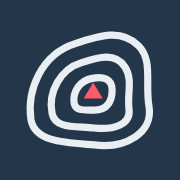
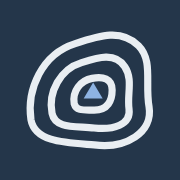
Akzentfarbe Nachtblau (dunkel: Gletscherblau), Fehler und Löschen bleiben rot, App-Symbol angepasst
Claude-Session: https://claude.ai/code/session_01SZfc5Yv3FoUxpLxE1zvgvR

Changed region(s): [[0.4722, 0.4444, 0.5833, 0.5556]]

diff --git a/index.html b/index.html
@@ -18,7 +18,7 @@
 <link rel="preconnect" href="https://fonts.gstatic.com" crossorigin>
 <link rel="stylesheet" href="https://fonts.googleapis.com/css2?family=Source+Sans+3:ital,wght@0,400;0,600;0,700;1,400&family=Source+Serif+4:opsz,wght@8..60,600;8..60,700&display=swap">
 <style>
-/* Layout: full-height topo map with a side panel (desktop) or a resizable panel below the map (phone). Serif headings like a logbook, red summit mark as the one accent. */
+/* Layout: full-height topo map with a side panel (desktop) or a resizable panel below the map (phone). Serif headings like a logbook, night blue as the one accent (tracks stay red). */
 :root {
   --bg: #F7F8F6;
   --surface: #FFFFFF;
@@ -26,7 +26,8 @@
   --muted: #5E6B78;
   --line: #DCE1E5;
   --chip: #EDF0F2;
-  --accent: #C8102E;
+  --accent: #1E3A5F;
+  --danger: #B42318;
   --accent-fg: #FFFFFF;
   --ok: #2E7D4F;
   --warn: #9A5B00;
@@ -39,14 +40,14 @@
 @media (prefers-color-scheme: dark) {
   :root:not([data-theme="light"]) {
     --bg: #12171C; --surface: #1A2128; --fg: #E5E9ED; --muted: #94A1AE; --line: #2A333C; --chip: #232B33;
-    --accent: #EE4B5E; --accent-fg: #FFFFFF; --ok: #5CC28A; --warn: #E0A548; --bar: #8FA9C4;
+    --accent: #8DB3E2; --accent-fg: #12171C; --danger: #F0707A; --ok: #5CC28A; --warn: #E0A548; --bar: #8FA9C4;
     --shadow: 0 1px 2px rgba(0,0,0,.4), 0 6px 20px rgba(0,0,0,.35);
     color-scheme: dark;
   }
 }
 :root[data-theme="dark"] {
     --bg: #12171C; --surface: #1A2128; --fg: #E5E9ED; --muted: #94A1AE; --line: #2A333C; --chip: #232B33;
-    --accent: #EE4B5E; --accent-fg: #FFFFFF; --ok: #5CC28A; --warn: #E0A548; --bar: #8FA9C4;
+    --accent: #8DB3E2; --accent-fg: #12171C; --danger: #F0707A; --ok: #5CC28A; --warn: #E0A548; --bar: #8FA9C4;
     --shadow: 0 1px 2px rgba(0,0,0,.4), 0 6px 20px rgba(0,0,0,.35);
     color-scheme: dark;
 }
@@ -78,9 +79,9 @@ h3.sec { font: 600 12.5px/1.2 var(--f-body); letter-spacing: .09em; text-transfo
 .stats { display: flex; flex-wrap: wrap; gap: 4px 14px; font-variant-numeric: tabular-nums; color: var(--muted); font-size: 13.5px; }
 .stats b { color: var(--fg); font-weight: 600; font-size: 15px; }
 .sync { font-size: 12.5px; color: var(--muted); display: flex; gap: 8px; align-items: center; flex-wrap: wrap; }
-.sync.err { color: var(--accent); }
+.sync.err { color: var(--danger); }
 .sync .dot { width: 7px; height: 7px; border-radius: 50%; background: var(--ok); flex: none; }
-.sync.err .dot { background: var(--accent); }
+.sync.err .dot { background: var(--danger); }
 .sync.busy .dot { background: var(--warn); }
 .linkbtn { border: 0; background: none; padding: 0; color: var(--accent); font-weight: 600; cursor: pointer; font-size: inherit; }
 
@@ -135,14 +136,14 @@ textarea { resize: vertical; min-height: 70px; }
 .btns { display: flex; gap: 8px; flex-wrap: wrap; }
 .btn { border: 1px solid var(--line); background: var(--surface); border-radius: 8px; padding: 8px 12px; font-weight: 600; font-size: 14px; cursor: pointer; display: inline-flex; align-items: center; justify-content: center; gap: 6px; text-decoration: none; color: var(--fg); }
 .btn.primary { background: var(--accent); border-color: var(--accent); color: var(--accent-fg); }
-.btn.danger { color: var(--accent); }
-.btn.danger.armed { background: var(--accent); color: var(--accent-fg); border-color: var(--accent); }
+.btn.danger { color: var(--danger); }
+.btn.danger.armed { background: var(--danger); color: #FFFFFF; border-color: var(--danger); }
 .btn:disabled { opacity: .5; cursor: default; }
 .btn.grow { flex: 1 1 auto; }
 .iconbtn { border: 1px solid var(--line); background: var(--surface); border-radius: 8px; min-width: 36px; height: 36px; padding: 0 8px; display: inline-flex; align-items: center; justify-content: center; gap: 6px; cursor: pointer; font-size: 13.5px; font-weight: 600; flex: none; color: var(--fg); }
 .iconbtn svg { width: 18px; height: 18px; stroke: currentColor; fill: none; stroke-width: 2; stroke-linecap: round; stroke-linejoin: round; }
 .status { font-size: 12.5px; color: var(--muted); }
-.status.err { color: var(--accent); }
+.status.err { color: var(--danger); }
 
 .vh { display: flex; align-items: center; gap: 10px; padding-block: 14px 12px; border-bottom: 1px solid var(--line); }
 .body { padding-block: 12px 20px; display: grid; gap: 12px; align-content: start; }

diff --git a/karten.html b/karten.html
@@ -16,7 +16,7 @@
 /* Layout: a slim header, then one or two synchronised maps side by side (stacked on the phone), each with its own map choice, overlays and a short fact strip. Same palette and type as the Gipfelbuch. */
 :root {
   --bg: #F7F8F6; --surface: #FFFFFF; --fg: #1C242C; --muted: #5E6B78; --line: #DCE1E5; --chip: #EDF0F2;
-  --accent: #C8102E; --accent-fg: #FFFFFF; --ok: #2E7D4F; --warn: #9A5B00;
+  --accent: #1E3A5F; --accent-fg: #FFFFFF; --ok: #2E7D4F; --warn: #9A5B00;
   --f-display: "Source Serif 4", Georgia, "Times New Roman", serif;
   --f-body: "Source Sans 3", -apple-system, system-ui, "Segoe UI", sans-serif;
   --shadow: 0 1px 2px rgba(20,30,40,.08), 0 6px 20px rgba(20,30,40,.12);
@@ -25,14 +25,14 @@
 @media (prefers-color-scheme: dark) {
   :root:not([data-theme="light"]) {
     --bg: #12171C; --surface: #1A2128; --fg: #E5E9ED; --muted: #94A1AE; --line: #2A333C; --chip: #232B33;
-    --accent: #EE4B5E; --accent-fg: #FFFFFF; --ok: #5CC28A; --warn: #E0A548;
+    --accent: #8DB3E2; --accent-fg: #12171C; --ok: #5CC28A; --warn: #E0A548;
     --shadow: 0 1px 2px rgba(0,0,0,.4), 0 6px 20px rgba(0,0,0,.35);
     color-scheme: dark;
   }
 }
 :root[data-theme="dark"] {
   --bg: #12171C; --surface: #1A2128; --fg: #E5E9ED; --muted: #94A1AE; --line: #2A333C; --chip: #232B33;
-  --accent: #EE4B5E; --accent-fg: #FFFFFF; --ok: #5CC28A; --warn: #E0A548;
+  --accent: #8DB3E2; --accent-fg: #12171C; --ok: #5CC28A; --warn: #E0A548;
   --shadow: 0 1px 2px rgba(0,0,0,.4), 0 6px 20px rgba(0,0,0,.35);
   color-scheme: dark;
 }
